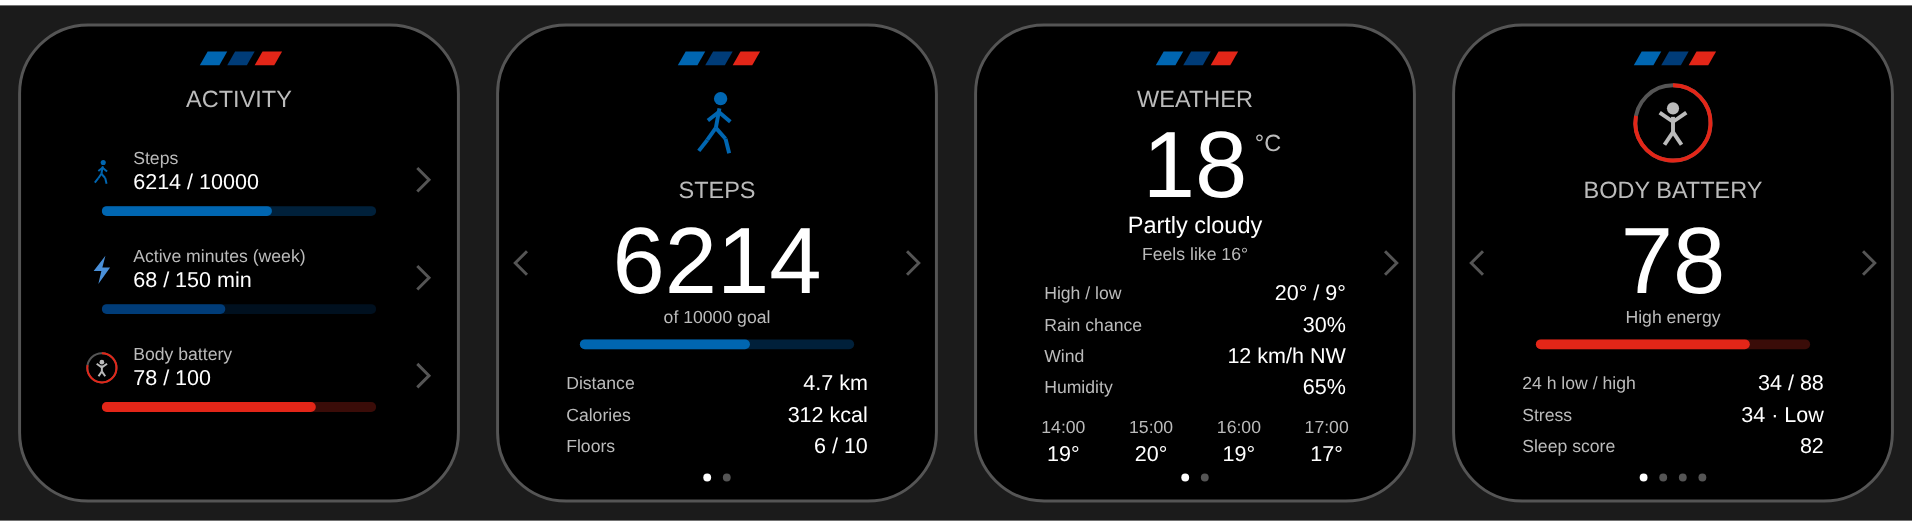
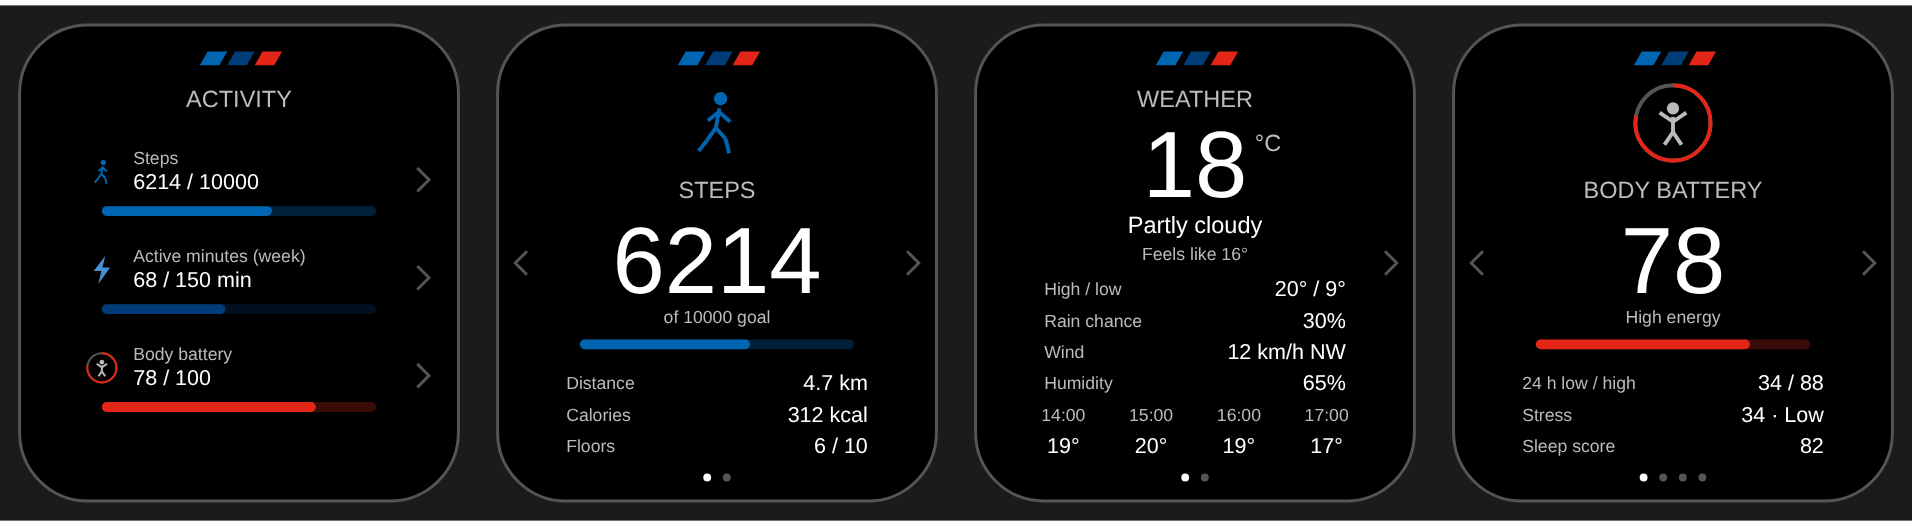
Tokenise the remaining spacing numbers and put weather on the metric row grid
Move the page accent, edge chevron, page dot, moon/sun mark, cloud strip, line end dot,
Activity page row and Weather page numbers into Theme.mc, so drawing code carries no
bare layout positions apart from chart arithmetic. The wireframe tool reads the same
tokens (its constant parser now accepts negative values).

The Weather page's four detail rows now end on the metric pages' last row (366) and its
hourly strip uses the next two row slots (398, 430), so every page shares one row grid.
README updated.

Claude-Session: https://claude.ai/code/session_01CEiR5mX4CwQUtKoZKTxSUA

Changed region(s): [[0.5246, 0.5171, 0.7097, 0.8821], [0.5246, 0.5171, 0.6172, 0.6388], [0.5246, 0.6692, 0.5863, 0.7605]]

diff --git a/tools/wireframes.py b/tools/wireframes.py
@@ -33,7 +33,7 @@ ROOT = HERE.parent
 
 # ---------------------------------------------------------------- theme
 _theme = (ROOT / "source" / "Theme.mc").read_text()
-_consts = dict(re.findall(r"const (\w+)\s*=\s*(0x[0-9A-Fa-f]+|[0-9.]+)\s*;", _theme))
+_consts = dict(re.findall(r"const (\w+)\s*=\s*(0x[0-9A-Fa-f]+|-?[0-9.]+)\s*;", _theme))
 
 
 def num(name):
@@ -60,6 +60,19 @@ Y_ROWS, Y_WEATHER_ROWS = num("Y_ROWS"), num("Y_WEATHER_ROWS")
 CHART_X, CHART_TOP, CHART_BOTTOM = num("CHART_X"), num("CHART_TOP"), num("CHART_BOTTOM")
 Y_XLABELS, Y_STATS, Y_DOTS, DOT_R = num("Y_XLABELS"), num("Y_STATS"), num("Y_DOTS"), num("DOT_R")
 Y_CAPTION = num("Y_CAPTION")
+STRIPE_X0, STRIPE_PITCH, STRIPE_W = num("STRIPE_X0"), num("STRIPE_PITCH"), num("STRIPE_W")
+STRIPE_SLANT, STRIPE_HALF_H = num("STRIPE_SLANT"), num("STRIPE_HALF_H")
+NAV_CHEVRON_X, CHEVRON_HALF_W, CHEVRON_HALF_H, DOT_PITCH = (num("NAV_CHEVRON_X"), num("CHEVRON_HALF_W"),
+                                                              num("CHEVRON_HALF_H"), num("DOT_PITCH"))
+MARK_DY, MOON_R, MOON_CUT_R, MOON_CUT_DX, MOON_CUT_DY = (num("MARK_DY"), num("MOON_R"), num("MOON_CUT_R"),
+                                                          num("MOON_CUT_DX"), num("MOON_CUT_DY"))
+SUN_R, SUN_RAY_IN, SUN_RAY_OUT, LINE_END_R = num("SUN_R"), num("SUN_RAY_IN"), num("SUN_RAY_OUT"), num("LINE_END_R")
+CLOUD_STRIP_DY, CLOUD_STRIP_H = num("CLOUD_STRIP_DY"), num("CLOUD_STRIP_H")
+ACT_GLYPH, ACT_GLYPH_DX, ACT_TEXT_DX = num("ACT_GLYPH"), num("ACT_GLYPH_DX"), num("ACT_TEXT_DX")
+ACT_LABEL_DY, ACT_VALUE_DY, ACT_BAR_DY = num("ACT_LABEL_DY"), num("ACT_VALUE_DY"), num("ACT_BAR_DY")
+ACT_CHEVRON_X, ACT_CHEVRON_DY = num("ACT_CHEVRON_X"), num("ACT_CHEVRON_DY")
+WEATHER_Y_HERO, WEATHER_Y_UNIT, WEATHER_UNIT_DX = num("WEATHER_Y_HERO"), num("WEATHER_Y_UNIT"), num("WEATHER_UNIT_DX")
+WEATHER_Y_COND, WEATHER_Y_FEELS = num("WEATHER_Y_COND"), num("WEATHER_Y_FEELS")
 ACTIVITY_ROW_TOP, ACTIVITY_ROW_PITCH = num("ACTIVITY_ROW_TOP"), num("ACTIVITY_ROW_PITCH")
 BAR_COLS_W, BAR_COLS_GAP = num("BAR_COLS_W"), num("BAR_COLS_GAP")
 DIM = {BLUE: BLUE_DIM, NAVY: NAVY_DIM, RED: RED_DIM}
@@ -243,8 +256,9 @@ def g_body(s, x, y, sz, c, frac):
 # ---------------------------------------------------------------- detail pages
 def stripes(s, ox):
     for i, c in enumerate([BLUE, NAVY, RED]):
-        x = ox + CX - 40 + i * 28
-        s.poly([(x + 8, Y_STRIPES - 7), (x + 28, Y_STRIPES - 7), (x + 20, Y_STRIPES + 7), (x, Y_STRIPES + 7)], c)
+        x = ox + CX + STRIPE_X0 + i * STRIPE_PITCH
+        s.poly([(x + STRIPE_SLANT, Y_STRIPES - STRIPE_HALF_H), (x + STRIPE_SLANT + STRIPE_W, Y_STRIPES - STRIPE_HALF_H),
+                (x + STRIPE_W, Y_STRIPES + STRIPE_HALF_H), (x, Y_STRIPES + STRIPE_HALF_H)], c)
 
 
 def bar(s, ox, y, frac, c):
@@ -260,19 +274,19 @@ def row(s, ox, y, label, value):
 
 
 def chevron(s, x, y, right):
-    d = -6 if right else 6
+    d = -CHEVRON_HALF_W if right else CHEVRON_HALF_W
     s.add('<polyline points="%.1f,%.1f %.1f,%.1f %.1f,%.1f" fill="none" stroke="%s" stroke-width="3"/>'
-          % (x + d, y - 12, x - d, y, x + d, y + 12, GREY_MID))
+          % (x + d, y - CHEVRON_HALF_H, x - d, y, x + d, y + CHEVRON_HALF_H, GREY_MID))
 
 
 def nav(s, sub, from_activity, count=2):
     """Edge chevrons and page dots, as drawNav() in BmwMDetail.mc."""
     if sub < count - 1:
-        chevron(s, W - 24, H / 2, True)
+        chevron(s, W - NAV_CHEVRON_X, H / 2, True)
     if sub >= 1 or from_activity:
-        chevron(s, 24, H / 2, False)
+        chevron(s, NAV_CHEVRON_X, H / 2, False)
     for i in range(count):
-        s.circle(CX + (i - (count - 1) / 2.0) * 20, Y_DOTS, DOT_R, WHITE if i == sub else GREY_MID)
+        s.circle(CX + (i - (count - 1) / 2.0) * DOT_PITCH, Y_DOTS, DOT_R, WHITE if i == sub else GREY_MID)
 
 
 def pages():
@@ -289,17 +303,17 @@ def pages():
              ("Body battery", "78 / 100", .78, RED, "body")]
     for i, (name, val, frac, c, g) in enumerate(items):
         y = ACTIVITY_ROW_TOP + 50 + i * ACTIVITY_ROW_PITCH
-        gx = MARGIN + 14
+        gx = MARGIN + ACT_GLYPH_DX
         if g == "walker":
-            g_walker(s, gx, y, 24, BLUE)
+            g_walker(s, gx, y, ACT_GLYPH, BLUE)
         elif g == "bolt":
-            g_bolt(s, gx, y, 24, NAVY_LIGHT)
+            g_bolt(s, gx, y, ACT_GLYPH, NAVY_LIGHT)
         else:
-            g_body(s, gx, y, 24, RED, frac)
-        s.text(MARGIN + 46, y - 14, name, "label", GREY_LIGHT, "start")
-        s.text(MARGIN + 46, y + 10, val, "value", WHITE, "start")
-        bar(s, 0, y + 40, frac, c)
-        chevron(s, W - 36, y + 8, True)
+            g_body(s, gx, y, ACT_GLYPH, RED, frac)
+        s.text(MARGIN + ACT_TEXT_DX, y + ACT_LABEL_DY, name, "label", GREY_LIGHT, "start")
+        s.text(MARGIN + ACT_TEXT_DX, y + ACT_VALUE_DY, val, "value", WHITE, "start")
+        bar(s, 0, y + ACT_BAR_DY, frac, c)
+        chevron(s, W - ACT_CHEVRON_X, y + ACT_CHEVRON_DY, True)
     s.add("</g>")
 
     # 2: a metric page (steps), opened from Activity, so it has a back chevron
@@ -319,17 +333,17 @@ def pages():
     screen(s, (W + 40) * 2)
     stripes(s, 0)
     s.text(CX, Y_TITLE, "WEATHER", "title", GREY_LIGHT)
-    s.text(CX, 142, "18", "hero", WHITE)
-    s.text(CX + 61, 120, "&#176;C", "title", GREY_LIGHT, "start")
-    s.text(CX, 204, "Partly cloudy", "title", WHITE)
-    s.text(CX, 234, "Feels like 16&#176;", "label", GREY_LIGHT)
+    s.text(CX, WEATHER_Y_HERO, "18", "hero", WHITE)
+    s.text(CX + 61 + WEATHER_UNIT_DX - 8, WEATHER_Y_UNIT, "&#176;C", "title", GREY_LIGHT, "start")
+    s.text(CX, WEATHER_Y_COND, "Partly cloudy", "title", WHITE)
+    s.text(CX, WEATHER_Y_FEELS, "Feels like 16&#176;", "label", GREY_LIGHT)
     for i, (l, v) in enumerate([("High / low", "20&#176; / 9&#176;"), ("Rain chance", "30%"),
                                 ("Wind", "12 km/h NW"), ("Humidity", "65%")]):
         row(s, 0, Y_WEATHER_ROWS + i * ROW_PITCH, l, v)
     for i, (t, v) in enumerate([("14:00", "19&#176;"), ("15:00", "20&#176;"), ("16:00", "19&#176;"), ("17:00", "17&#176;")]):
         x = W * (.2 + .2 * i)
-        s.text(x, 410, t, "label", GREY_LIGHT)
-        s.text(x, 438, v, "value", WHITE)
+        s.text(x, Y_ROWS + ROW_PITCH, t, "label", GREY_LIGHT)
+        s.text(x, Y_ROWS + 2 * ROW_PITCH, v, "value", WHITE)
     nav(s, 0, False)
     s.add("</g>")
     # 4: Body Battery detail, opened from Activity, with four pages in all
@@ -405,15 +419,16 @@ def find_sleep(hr, bb):
 
 
 def moon(s, x, y):
-    s.circle(x, y, 7, NAVY_LIGHT)
-    s.circle(x + 4, y - 2, 6, BLACK)
+    s.circle(x, y, MOON_R, NAVY_LIGHT)
+    s.circle(x + MOON_CUT_DX, y + MOON_CUT_DY, MOON_CUT_R, BLACK)
 
 
 def sun(s, x, y):
-    s.circle(x, y, 4, WHITE)
+    s.circle(x, y, SUN_R, WHITE)
     for i in range(8):
         a = i * math.pi / 4
-        s.line((x + math.cos(a) * 6, y + math.sin(a) * 6), (x + math.cos(a) * 9, y + math.sin(a) * 9), WHITE, 2)
+        s.line((x + math.cos(a) * SUN_RAY_IN, y + math.sin(a) * SUN_RAY_IN),
+               (x + math.cos(a) * SUN_RAY_OUT, y + math.sin(a) * SUN_RAY_OUT), WHITE, 2)
 
 
 def grey_level(pct):
@@ -445,8 +460,8 @@ def line_chart(s, vals, color, xlabels, sleep=None, rain=None, cloud=None, froze
                 sx = x0
             if sx + sw > x1:
                 sw = x1 - sx
-            s.add('<rect x="%.1f" y="%d" width="%.1f" height="12" fill="%s"/>'
-                  % (sx, CHART_TOP - 22, sw, grey_level(cloud[i])))
+            s.add('<rect x="%.1f" y="%d" width="%.1f" height="%d" fill="%s"/>'
+                  % (sx, CHART_TOP + CLOUD_STRIP_DY, sw, CLOUD_STRIP_H, grey_level(cloud[i])))
     if sleep:
         a_, b_ = sleep
         n_ = len(vals)
@@ -454,9 +469,9 @@ def line_chart(s, vals, color, xlabels, sleep=None, rain=None, cloud=None, froze
         xb = x0 + (x1 - x0) * (b_ - 1) / (n_ - 1)
         s.add('<rect x="%.1f" y="%d" width="%.1f" height="%d" fill="%s"/>' % (xa, CHART_TOP, xb - xa, CHART_BOTTOM - CHART_TOP, BLUE_DIM))
         if a_ > 0:
-            moon(s, xa, CHART_TOP - 12)
+            moon(s, xa, CHART_TOP + MARK_DY)
         if b_ < n_:
-            sun(s, xb, CHART_TOP - 12)
+            sun(s, xb, CHART_TOP + MARK_DY)
     fmt = (lambda v: "%.1f" % (v / 10.0)) if tenths else str
     s.text(x1 + 6, CHART_TOP, fmt(max(good)), "label", GREY_LIGHT, "start")
     s.text(x1 + 6, CHART_BOTTOM, fmt(min(good)), "label", GREY_LIGHT, "start")
@@ -472,7 +487,7 @@ def line_chart(s, vals, color, xlabels, sleep=None, rain=None, cloud=None, froze
             s.line(prev, (x, y), color, 3)
         prev = (x, y)
     if prev:
-        s.circle(prev[0], prev[1], 4, color)
+        s.circle(prev[0], prev[1], LINE_END_R, color)
     for x, anchor, t in zip((x0, CX, x1), ("start", "middle", "end"), xlabels):
         s.text(x, Y_XLABELS, t, "label", GREY_LIGHT, anchor)
 

diff --git a/README.md b/README.md
@@ -152,8 +152,11 @@ whole face.
 - **Fonts:** four roles mapped to Garmin system fonts: label, value, title and
   hero number.
 
-The weather page's headline and hourly strip use a few one-off vertical
-positions of their own. They are not in `Theme.mc`.
+Page furniture (the M stripe accent, edge chevrons, page dots, the moon and sun marks, the
+cloud strip) and the Activity and Weather page positions are tokens too. The Weather
+page's detail rows and hourly strip sit on the same row grid as the metric pages.
+The dial's own layout (badge, hands, roundel, tick lengths) is written as fractions of
+the dial radius in `BmwMWatchView.mc` rather than tokens.
 
 ## Build
 
